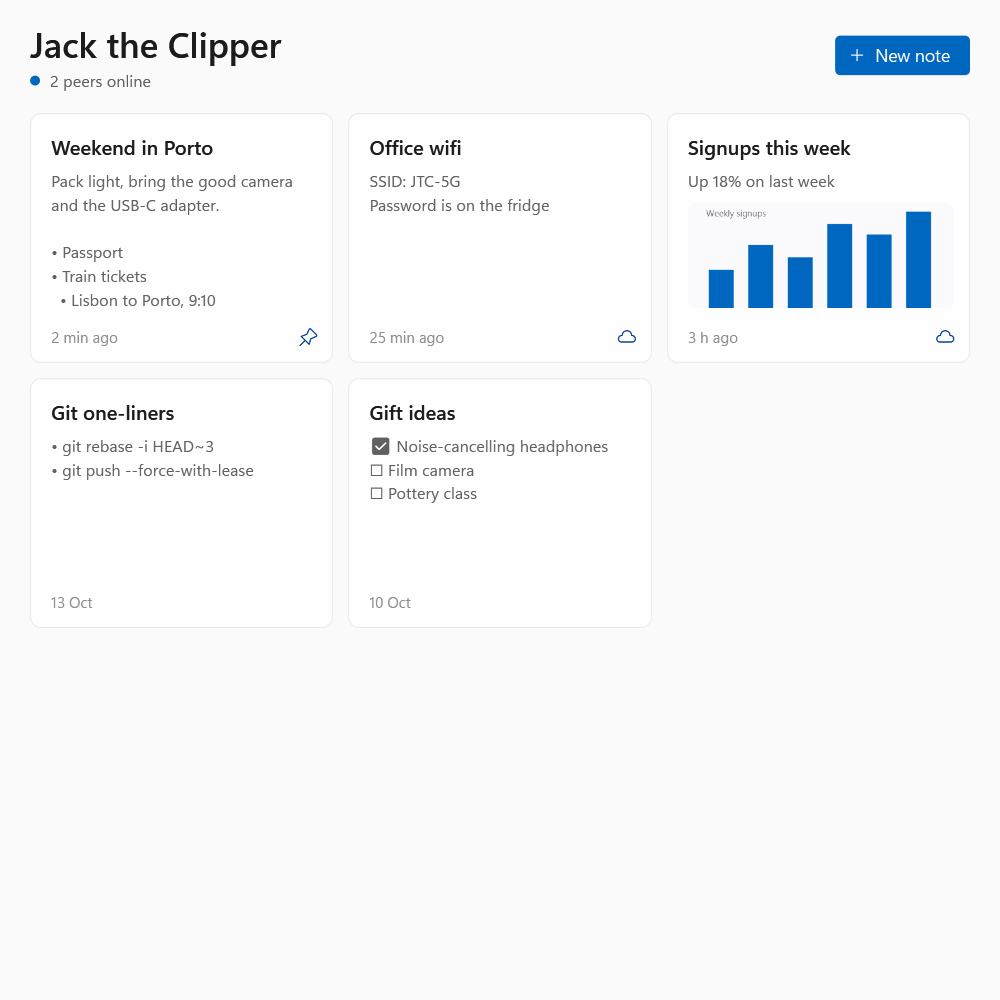
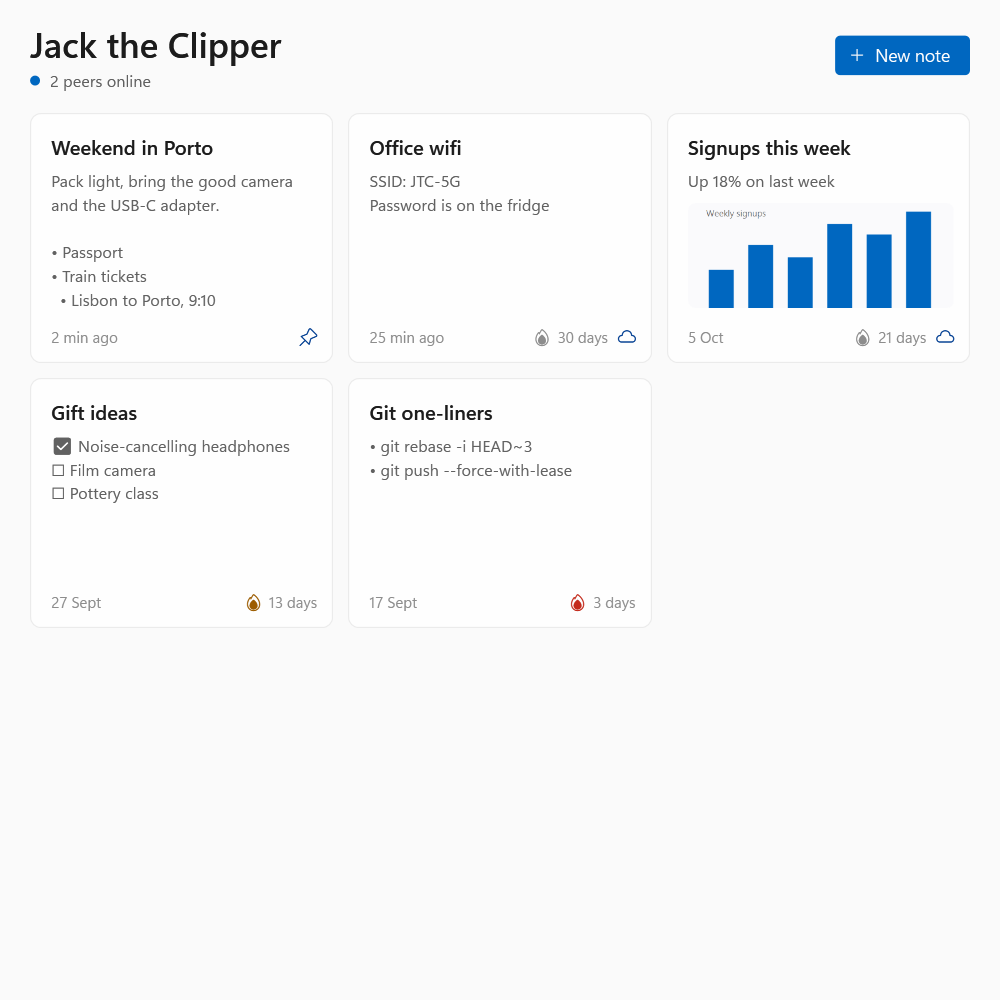
Show days until deletion on note cards; README shows both themes
Unpinned notes get a flame and the days left before the 30-day expiry,
turning yellow under 15 days and red under 5. The README now shows the
editor and the notes list in both dark and light themes.

diff --git a/MainWindow.xaml.cs b/MainWindow.xaml.cs
@@ -427,7 +427,7 @@ public partial class MainWindow : Window
         head.Children.Add(new TextBlock { Text = title, FontSize = 16, FontWeight = FontWeights.SemiBold, TextTrimming = TextTrimming.CharacterEllipsis, VerticalAlignment = VerticalAlignment.Center });
 
         var badges = new StackPanel { Orientation = Orientation.Horizontal };
-        if (n.Pinned) badges.Children.Add(Glyph(IconPin, "Pinned"));
+        badges.Children.Add(n.Pinned ? Glyph(IconPin, "Pinned: never deleted") : Expiry(n));
         if (n.Public) badges.Children.Add(Glyph(IconCloud, "Public: shared with peers"));
         var foot = new DockPanel { Margin = new Thickness(0, 8, 0, 0) };
         DockPanel.SetDock(badges, Dock.Right);
@@ -466,6 +466,21 @@ public partial class MainWindow : Window
         card.MouseLeave += (_, _) => { card.SetResourceReference(Border.BackgroundProperty, "CardBackgroundFillColorDefaultBrush"); copy.Visibility = Visibility.Hidden; };
         card.MouseLeftButtonUp += (_, _) => Open(n);
         return card;
+    }
+
+    // Unpinned notes are deleted 30 days after their last edit: a flame and the days left, yellow under 15, red under 5.
+    static FrameworkElement Expiry(Note n)
+    {
+        var days = Math.Max(0, (int)Math.Ceiling((n.Updated + Store.Ttl - Store.Now()) / (double)Store.Day));
+        var label = days == 1 ? "1 day" : $"{days} days";
+        var flame = Themed(new TextBlock { Text = "\U0001F525", FontFamily = new FontFamily("Segoe UI Emoji"), FontSize = 12, VerticalAlignment = VerticalAlignment.Center },
+            days < 5 ? "SystemFillColorCriticalBrush" : days < 15 ? "SystemFillColorCautionBrush" : "TextFillColorTertiaryBrush");
+        var text = Themed(new TextBlock { Text = label, FontSize = 12, Margin = new Thickness(4, 0, 0, 0), VerticalAlignment = VerticalAlignment.Center }, "TextFillColorTertiaryBrush");
+        return new StackPanel
+        {
+            Orientation = Orientation.Horizontal, Margin = new Thickness(8, 0, 0, 0), ToolTip = $"Deleted in {label} unless it's edited or pinned",
+            Children = { flame, text },
+        };
     }
 
     BitmapSource? Thumb(Note n)

diff --git a/README.md b/README.md
@@ -3,10 +3,10 @@
 A floating clipboard notepad for Windows. Press a hotkey, type or paste, and it's saved. Public notes are shared
 peer-to-peer with everyone running Jack the Clipper on the same network — no server, no accounts, no setup.
 
-<p align="center">
-  <img src="docs/dark-editor.png" width="49%" alt="Editor with live Markdown, dark theme">
-  <img src="docs/light-notes.png" width="49%" alt="Notes list, light theme">
-</p>
+| | Editor | Notes |
+| --- | --- | --- |
+| **Dark** | ![Editor with live Markdown, dark theme](docs/dark-editor.png) | ![Notes list, dark theme](docs/dark-notes.png) |
+| **Light** | ![Editor with live Markdown, light theme](docs/light-editor.png) | ![Notes list, light theme](docs/light-notes.png) |
 
 ## Features
 
@@ -17,7 +17,7 @@ peer-to-peer with everyone running Jack the Clipper on the same network — no s
 - **Live Markdown.** Headings, bold, italic, strikethrough, inline code and code blocks, bullet, numbered and
   checkbox lists, quotes, dividers and links are styled as you type. Notes stay plain Markdown underneath.
 - **History.** Every note saves automatically. Pinned notes stay forever and sit at the top; the rest vanish
-  30 days after their last edit.
+  30 days after their last edit. Each card's 🔥 counts down the days left, turning yellow under 15 and red under 5.
 - **Public or private.** Click the cloud to share a note. Public notes sync to every copy of the app on your
   network, and notes you've received travel with you to the next network you join.
 - **Copy a whole note** from the card, the `⋮` menu or a right-click.
